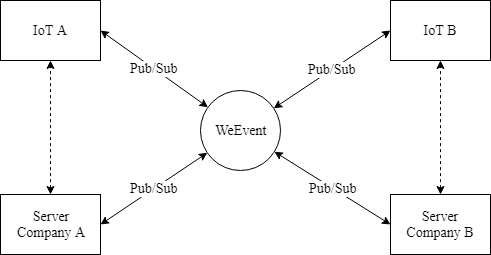
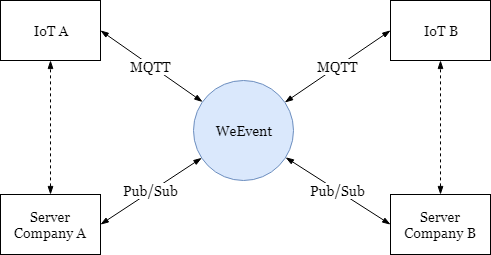
update images

diff --git a/docs/scarino/classic.md b/docs/scarino/classic.md
@@ -1,5 +1,5 @@
 ## 典型场景
-`WeEvent`作为一个事件中间件，属于`MOM`编程实践的一部分。理论上，使用传统消息队列`Message Queue`的场景，都可以使用`WeEvent`代替。`WeEvent`支持的`STOMP`协议，也使这种切换变的更简单和方便。
+`WeEvent`作为一个事件中间件，属于`MOM`编程实践的一部分。理论上，使用传统消息队列`Message Queue`的场景，都可以使用`WeEvent`代替。`WeEvent`支持的多种接入协议如`STOMP`协议，也使这种切换变的更简单和方便。
 
 相比传统`MQ`，`WeEvent`是去中心化的，更加关注访问安全，数据不可篡改等特性。非常适合应用在跨组织的，多个公司之间的合作。
 
@@ -11,7 +11,11 @@
 
 - 传统RPC模式如何转到WeEvent
 
-  一个种方案是，业务程序做一些调整，以适应`MOM`编程范式。
+  一个种方案是，业务程序做一些调整，以适应`MOM`编程范式；
 
   另一种改动比较小的方案是，在数据库上建立`trigger`，从数据库这一层将数据及其变化桥接到`WeEvent`上来。
+
+- 区块链合约与传统编程模型的结合
+
+  现有技术条件下，区块链合约开发和传统编程之间还是有裂痕的。各种区块链技术都有针对传统编程语言的适配接口，使得在`Java`、`JavaScript`、`GO`、`Python`等语言中调用合约变成可能。但是在合约代码里想调用/通知到传统语言的服务还是很困难的。使用`WeEvent`使得数据流从合约到传统服务也变的简单。
 

diff --git a/docs/introduction/core.md b/docs/introduction/core.md
@@ -12,7 +12,7 @@
 ### 事件（Event）  
 事件`Event`可以简单理解成业务层面的一个消息。一般是终端用户或设备触发。
 
-一个事件分为三部分，关联的主题、事件内容、事件ID`EventID`。`Java`映射类参见[WeEvent.java](https://github.com/WeBankFinTech/WeEvent/blob/master/weevent-client/src/main/java/com/webank/weevent/sdk/WeEvent.java)。
+一个事件分为四部分，关联的主题、事件内容、事件ID`EventID`和可选的自定义属性。`Java`映射类参见[WeEvent.java](https://github.com/WeBankFinTech/WeEvent/blob/master/weevent-client/src/main/java/com/webank/weevent/sdk/WeEvent.java)。
 
 事件内容是一个字节数组`byte[]`，对`WeEvent`是透明的。业务可以存放任何数据，例如字符型的`Json`、`XML` ，或者二进制的`Protocol Buffer`等。
 

diff --git a/docs/scarino/iot.md b/docs/scarino/iot.md
@@ -3,6 +3,7 @@
 
 在`5G`时代，网络的带宽和延迟已经不是问题。通过`WeEvent`完全可以做到端到端的数据通知和触达，无需通过各自公司内部后台服务的转发。
 
-例如，A公司的`IoT`设备可以直接在终端通过接入`WeEvent`发布事件，任何其他感兴趣公司的`IoT`设备直接在终端上通过接入`WeEvent`订阅该事件，所有公司在需要做权限控制或者统计分析的地方通过接入`WeEvent`来加入计算逻辑。
+例如，A公司的`IoT`设备可以直接在终端通过接入`WeEvent`发布事件，任何其他感兴趣公司的`IoT`设备直接在终端上通过接入`WeEvent`订阅该事件。通过`WeEvent`的`Event Processor`加入业务的权限控制或者自定义事件流。
 
 ![IoTScarino.png](../image/IoTScarino.png)
+

diff --git a/docs/install/module/governance.md b/docs/install/module/governance.md
@@ -210,7 +210,7 @@ $ ./sbin/nginx -t
 $ ./sbin/nginx -s reload
 ```
 
-用户可以通过浏览器访问http://ip:8080/weevent-governance/。`Governance`页面如下：
+用户可以通过浏览器访问http://localhost:8080/weevent-governance/。`Governance`页面如下：
 
 ![](../../image/Governance-ui.png)
 
